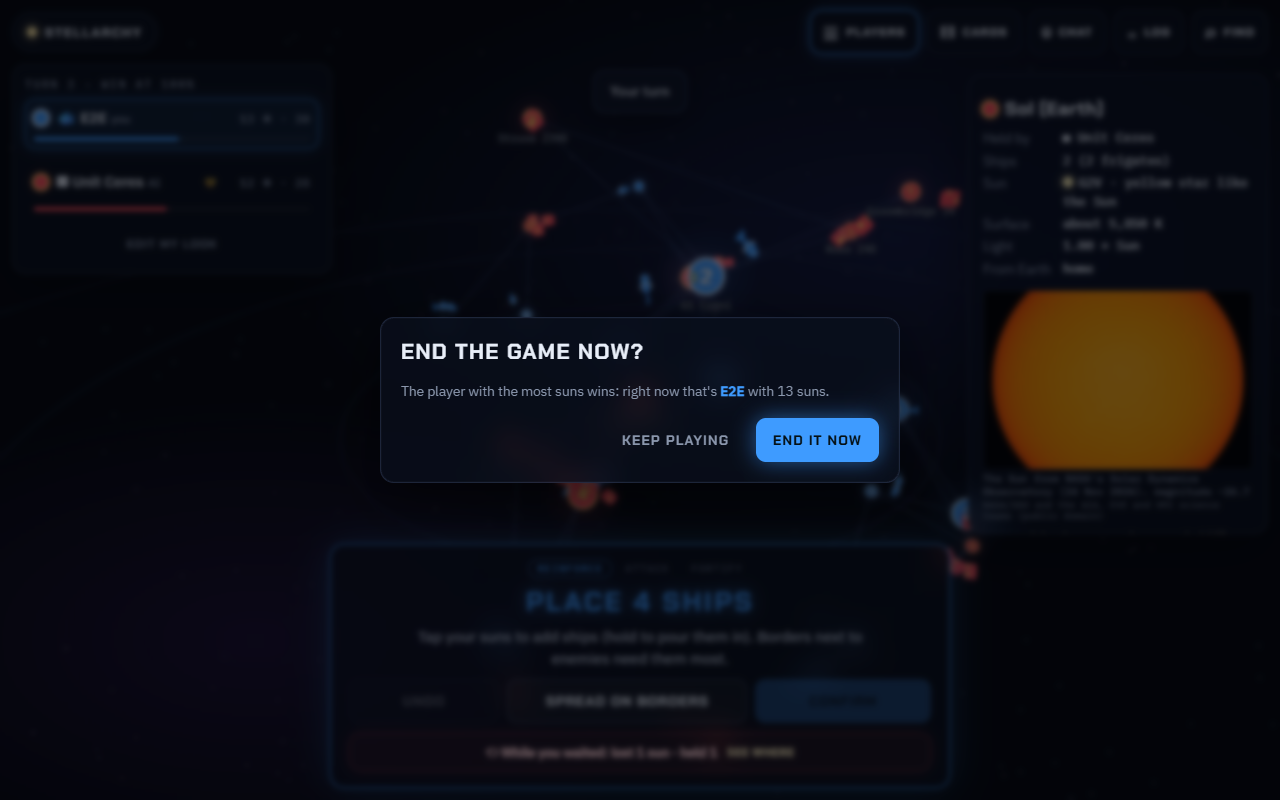
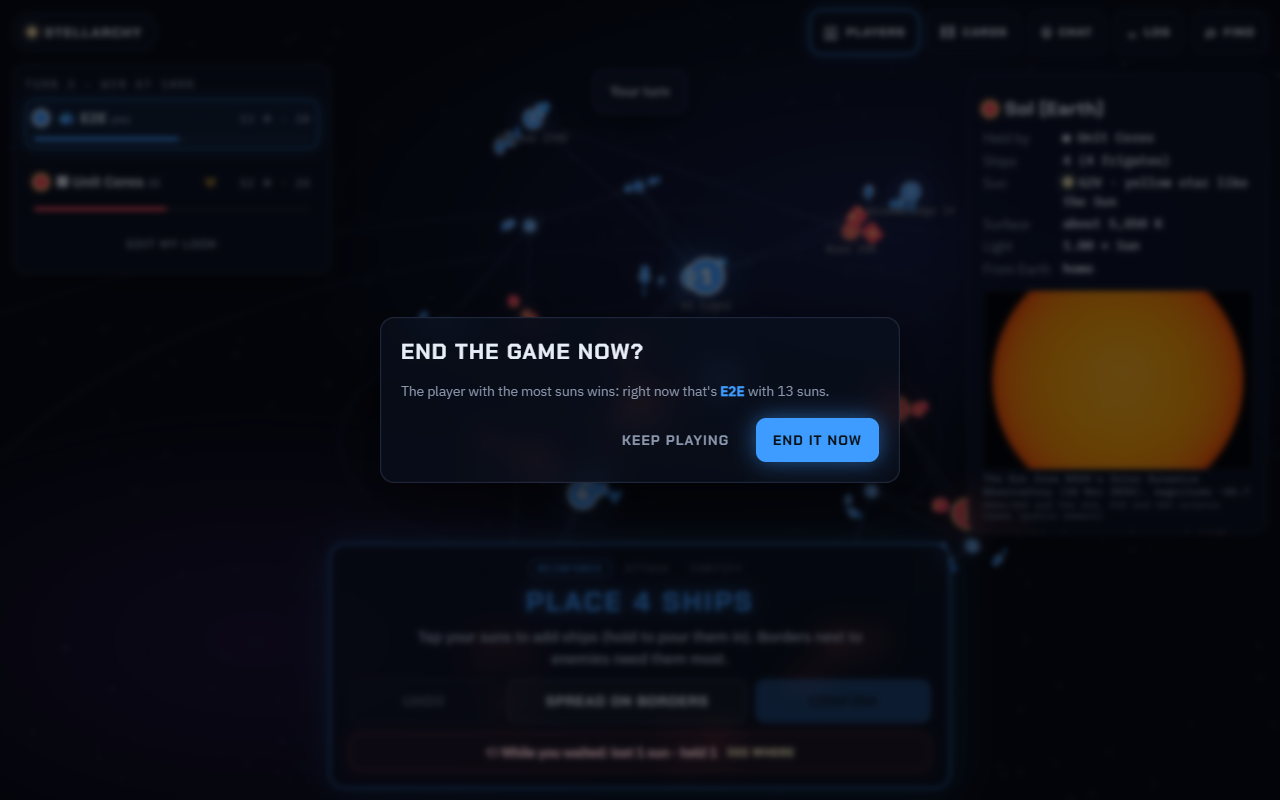
Round 43: link-preview cards (og image, invite titles), TODO tidy

diff --git a/server/worker.js b/server/worker.js
@@ -67,10 +67,24 @@ export default {
       return env.ROOMS.get(env.ROOMS.idFromName(code)).fetch(req);
     }
     // /r/CODE links open the page; the page reads the code from the address
-    if (/^\/r\/[A-Za-z0-9]{4}$/.test(p)) return env.ASSETS.fetch(new Request(new URL("/", url), req));
+    if (/^\/r\/[A-Za-z0-9]{4}$/.test(p)) return withPreview(await env.ASSETS.fetch(new Request(new URL("/", url), req)), url, p.slice(3).toUpperCase());
+    if (p === "/" || p === "/index.html") return withPreview(await env.ASSETS.fetch(req), url, null);
     return env.ASSETS.fetch(req);
   },
 };
+
+// link previews (round 43): full addresses for this site, and an invite's own title ("Join my Stellarchy war · room ABCD")
+function withPreview(res, url, code) {
+  if (!res.ok || !(res.headers.get("content-type") || "").includes("text/html")) return res;
+  const site = url.origin, setContent = v => ({ element(e) { e.setAttribute("content", v); } });
+  let rw = new HTMLRewriter()
+    .on('meta[property="og:image"]', setContent(site + "/og.jpg"))
+    .on('meta[property="og:url"]', setContent(code ? `${site}/r/${code}` : site + "/"));
+  if (code && CODE.test(code)) rw = rw
+    .on('meta[property="og:title"]', setContent(`Join my Stellarchy war · room ${code}`))
+    .on('meta[property="og:description"]', setContent("Tap to join the room: a free neon strategy war for the real stars. No account needed."));
+  return rw.transform(res);
+}
 
 // the lobby: public rooms report in; anything quiet for 15 minutes (or finished for 2) drops off the list
 export class Lobby {

diff --git a/client/index.html b/client/index.html
@@ -7,6 +7,17 @@
 <meta name="theme-color" content="#05070c">
 <meta name="description" content="Stellarchy: a free neon strategy war for Sol and the nearest real stars. Play in your browser with friends or against the AI. No account, no tokens.">
 <title>Stellarchy</title>
+<!-- link previews (round 43): the server fills in full addresses for the site being visited, and a room's own title for invite links -->
+<meta property="og:type" content="website">
+<meta property="og:site_name" content="Stellarchy">
+<meta property="og:title" content="Stellarchy: a war for the real stars">
+<meta property="og:description" content="A free neon strategy war for Sol and the nearest real stars. Play in your browser with friends or against the AI. No account, no tokens.">
+<meta property="og:image" content="/og.jpg">
+<meta property="og:image:width" content="1200">
+<meta property="og:image:height" content="630">
+<meta property="og:image:alt" content="The Stellarchy wordmark glowing over a web of real nearby stars">
+<meta property="og:url" content="/">
+<meta name="twitter:card" content="summary_large_image">
 <link rel="icon" href="icon.svg" type="image/svg+xml">
 <link rel="manifest" href="manifest.webmanifest">
 <link rel="apple-touch-icon" href="icon-192.png">

diff --git a/tests/room.int.js b/tests/room.int.js
@@ -236,6 +236,13 @@ for (const c of [a, bb, sneaky]) c.ws.close();
   check(asked && kept && a.state.status === "over" && a.state.game.winner >= 0, `ending by agreement: one ask waits for everyone, "keep playing" cancels it, and two yeses end it (winner seat ${a.state.game && a.state.game.winner})`);
   a.ws.close(); b.ws.close();
 }
+// link previews (round 43): the page carries a full picture address, and an invite link names its room
+{
+  const home = await (await fetch(BASE + "/")).text(), inv = await (await fetch(BASE + "/r/QX7K")).text();
+  const img = (home.match(/property="og:image" content="([^"]+)"/) || [])[1] || "";
+  const pic = await fetch(img).catch(() => null);
+  check(img.startsWith(BASE + "/og.jpg") && pic && pic.ok && /room QX7K/.test(inv) && inv.includes(BASE + "/r/QX7K"), `link previews: a full picture address (${img}) and invite cards that name the room`);
+}
 // an idle room closes itself (needs DEV=1 in .dev.vars for the short idle time)
 {
   const r = await fetch(BASE + "/api/rooms", { method: "POST", body: JSON.stringify({ maxSeats: 2, public: true, idleMs: 1500 }) });

diff --git a/TODO.md b/TODO.md
@@ -98,9 +98,10 @@ ode`, because the MSI needed an admin prompt. `run.ps1` puts it on PATH.
    - [x] An all-bot soak test (`run.ps1 soak`): 60 of 60 games finish, with a median of 1,712 turns.
    - [x] Screenshots at every screen size above. *(Round 13: `docs/shots/`: phone portrait, phone landscape, tablet, ultrawide, fog, results.)*
 8. **Going public (Paul only)**
-   - [ ] Paul makes a free Cloudflare account and signs in himself. Then `wrangler deploy` happens only on his go.
-   - [ ] Check the free plan's current limits (Workers requests, Durable Object requests and storage) against about 300 players.
+   - [x] Paul makes a free Cloudflare account and signs in himself. Then `wrangler deploy` happens only on his go.
+   - [x] Check the free plan's current limits (Workers requests, Durable Object requests and storage) against about 300 players.
    - [ ] A small friends test (5–10 people) before sharing widely.
+   - *(2026-11-26: the account is made and on Workers Paid ($5); deployed from GitHub, live at https://stellarchy.maiqs.workers.dev. The domain stellarchy-game.com is bought and on Cloudflare. Still to do in the dashboard: add the plain domain as a Production custom domain, and remove the Cloudflare Access login that guards www.)*
 
 ## Open for Paul
 - A domain? The free one is `<name>.workers.dev`; a custom domain costs money, so skip it unless he wants one.
@@ -186,7 +187,7 @@ Sources:
   - https://www.gamedeveloper.com/game-platforms/analysis-asynchronicity-in-game-design
   - https://forums.sorcererking.com/377297/reply/2555466
 
-- [ ] **Round 25 research:**
+- [x] **Round 25 research:**
   - [x] **AI difficulty, with friendly names:** beginners get pushed out by early AI aggression, and "Very Easy" labels feel embarrassing. Harder AI usually means hidden bonuses, which should be stated openly. *(Round 25: Recruit, Captain and Admiral.)*
   - [x] **Show the dice are fair:** digital conquest games draw constant "the dice cheat" complaints, and the official game had to post an FAQ. Colonist.io explaining its dice did not settle it. Ideas: *(Round 25: the rules count every die; the results show your average against 3.50; How to play explains server-rolled dice and the only AI bonus.)*
     - your own roll statistics against the expected average, on the results screen
@@ -204,7 +205,7 @@ Sources:
   - https://ie.trustpilot.com/review/colonist.io?page=2
   - https://community.playchessup.com/t/chess-com-rematch-button/2078
 
-- [ ] **Round 35 research:**
+- [x] **Round 35 research:**
   - [x] **Skip the AI's turns and the animations:** the most repeated ask found this round. Armello players call long AI turns unplayable and want a skip button; Gems of War asks for "Skip AI turn animation"; Hearthstone asks for a "Skip animations" option and speed settings; Board Game Arena asks for an option to turn off scoring animations, and another for no flashing or repeated animations. *(Round 35: Battle effects Full / Quick / Off and ⏩ Skip to my turn.)*
   - [x] **Slow it down for me only:** Lords of Waterdeep players found the AI too fast to follow and asked to slow it, but not for everyone. Online, our pace is per room; a per-viewer replay of the last turn ("What just happened?") would cover it without slowing others. *(Round 38: "While you waited": at the start of your turn the bar shows ⟲ lost N suns · held N (red when you lost any). It opens a list of each sun lost or held, who attacked, ships lost and destroyed, plus knock-outs and broken truces; tap a sun to fly there. `client/recap.js`, unit-tested.)*
   - [x] **Vote to end a stuck game:** war.app players can vote to end a game after someone disconnects and restart from a few turns back. For us: when only AI-covered seats are holding the game up, the humans can vote "end now, most suns wins". *(Round 42: Menu → ⚑ End the game now. Online, it asks everyone; a gold banner on every bar offers Agree or Keep playing. It ends only if every human still playing and present agrees within 2 minutes (AI-covered seats do not vote); Keep playing cancels it. Solo, it ends at once. Most suns wins; ties go to the most ships. `endByAgreement` and `leader` are in `shared/rules.js`.)*
@@ -223,7 +224,7 @@ Sources:
   - https://forum.ironhelmet.com/t/a-bunch-of-collected-feedback-from-a-newbie/5320
 
 ## Bugs and balance
-- [ ] **Launch load (found 2026-11-26, Paul asked "what if 10K people hop on"):**
+- [x] **Launch load (found 2026-11-26, Paul asked "what if 10K people hop on"):**
   - [x] **The lobby is a single hotspot.** Every room reports to the one Lobby object every 10 moves, and the lobby rewrites its whole room list to storage each time. With thousands of busy rooms that is hundreds of writes a second to one object. Report only when the listing changes (status, seats, AI seats), at most every ~20 s, and keep the list in memory with a slower save. *(Round 41: done. Private rooms never report. Listed rooms report only when the listing changes, or once a minute; a 75-turn public game now sends 5 reports, against about 85 before. The lobby saves at most every 10 s and tidies at most every 5 s. A room check covers it.)*
   - [x] **AI moves run on alarms**, so a room with AI seats stays awake and every move counts as a request. Free plan: 100,000 Durable Object requests a day, then online play fails until midnight UTC (solo play still works; it runs in the browser). Measure requests per online game with the local server, to size the free plan versus Workers Paid. *(Round 41: `.\run.ps1 measure`. A 4-seat, 100-sun game costs about 900–4,000 alarms (one per AI move), so roughly 1,000–4,000 requests a game, plus a few per human action. Free plan: about 25–100 online games a day. Paul is taking Workers Paid ($5).)*
   - [x] Check that Quick play falls back to Play vs AI on a 500 or 503 as well as on no connection (it does on any non-OK reply; confirm once deployed). *(Round 42: confirmed in the code. Any non-OK reply except 429 opens Play vs AI with a message; 429 shows the limit message.)*
@@ -577,3 +578,8 @@ Sources:
   - Ending by agreement (a player wish): ⚑ End the game now in the Menu. Online, every human still playing must agree within 2 minutes; solo, it ends at once. Most suns wins.
   - Confirmed that Quick play falls back to Play vs AI on any server error.
   - 53 of 53 unit tests, 22 of 22 browser checks and 39 of 39 room checks pass.
+- **Round 43 (2026-11-26):**
+  - Link previews: shared links now show a card (title, description, and a 1200×630 picture of the title screen, `client/og.jpg`, made by `tools/og_image.mjs`). The server fills in full addresses for whichever site is visited, and invite links say "Join my Stellarchy war · room CODE".
+  - TODO tidy: ticked the account, the plan limits, launch load and two research groups.
+  - Checked the live domain for Paul: the plain domain has no address yet, and www is behind a Cloudflare Access login.
+  - 53 of 53 unit tests, 23 of 23 browser checks and 40 of 40 room checks pass; a dry-run deploy builds.
